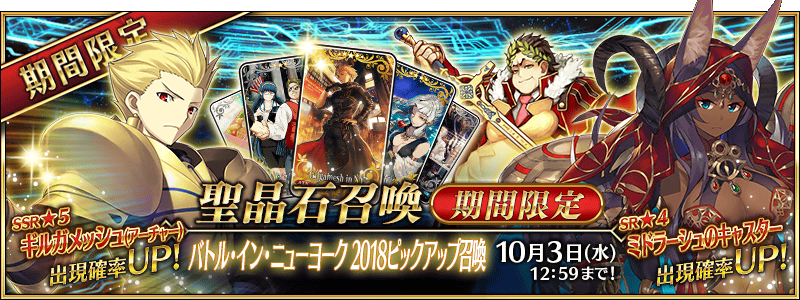
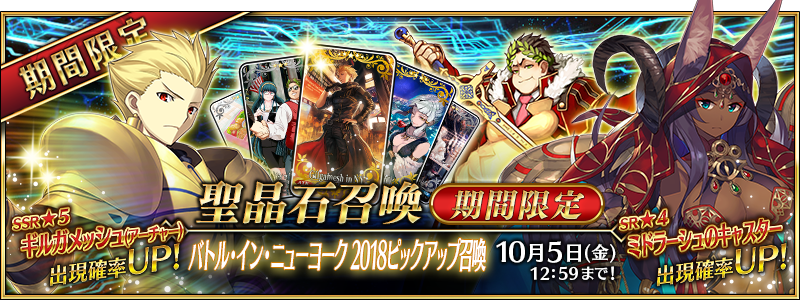
0926neqkj

diff --git a/event_binny.html b/event_binny.html
@@ -76,7 +76,8 @@ table.trbgcolor tr:nth-child(2n+1) {
 	<a href="#midashi_17"><div class="bkmk">米德拉什的Caster</div></a>
 	</div>
 <article class="content textsize" style="width:840px">
-<p><img alt="TOPバナー" height="300" src="common/images/2018/binny_full_ajeh8/top_banner.png" width="800"/></p>
+<p><img alt="TOPバナー" height="300" src="common/images/2018/binny_full_ajeh8/top_banner.png" width="800"/><br/>
+<span class="em01">【9月27日(四) 12:00圖片更新】</span></p>
 <div style="height:10px; margin-top:-15px;"></div>
 <!-- block -->
 <p><img alt="プロローグ" height="300" src="common/images/2018/binny_full_ajeh8/prologue.png" width="800"/><br/>
@@ -84,7 +85,8 @@ table.trbgcolor tr:nth-child(2n+1) {
 <!-- block -->
 <p style="margin-bottom: 5px;"><img alt="" src="common/images/2018/binny_wak7d/midashi_01.png" id="midashi_01"/></p>
 <p><span class="diamond">◆</span><span class="strong">活動舉辦期間</span><span class="diamond">◆</span><br/>
-<span class="em01">2018年9月19日(三) 17:00～10月3日(三) 11:59</span></p>
+<span class="em01">2018年9月19日(三) 17:00～<s>10月3日(三)</s>10月5日(五) 11:59<br/>
+※9/27(四) 12:00修正</span></p>
 <p><span class="diamond">◆</span><span class="strong">活動概要</span><span class="diamond">◆</span><br/>
 <span class="em01">舉辦期間限定活動「Battle in New York 2018」！<br/>
 戰鬥的舞台從羅馬遷移到紐約！<br/>
@@ -128,12 +130,13 @@ table.trbgcolor tr:nth-child(2n+1) {
 </tr>
 <tr><td>預選</td><td>9月19日(三) 17:00～9月23日(日) 16:59</td></tr>
 <tr><td>正賽</td><td>9月23日(日) 17:00～9月28日(五) 16:59</td></tr>
-<tr><td>決賽</td><td>9月28日(五) 17:00～10月3日(三) 11:59</td></tr>
+<tr><td>決賽</td><td>9月28日(五) 17:00～<s>10月3日(三)</s>10月5日(五) 11:59</td></tr>
 </tbody>
 </table>
+<p class="em01">※9/27(四) 12:00修正<br/></p>
 <!-- block -->
 <p><span class="em01">【9月19日(三) 17:00追記】</span></p>
-<p><img alt="" height="380" src="common/images/2018/binny_full_ajeh8/info_image_02.png" width="800"/></p>
+<p><img alt="" height="380" src="common/images/2018/binny_full_ajeh8/info_image_02_b.png" width="800"/></p>
 <!-- block -->
 <table align="center" class="trbgcolor" style=";;margin-bottom: 10px; margin-top: 3px" width="100%">
 <tbody>
@@ -151,6 +154,25 @@ table.trbgcolor tr:nth-child(2n+1) {
 </table>
 <br/>
 <!-- block -->
+<p><span class="em01">【9月23日(日) 17:00追記】</span></p>
+<p><img alt="" height="380" src="common/images/2018/binny_full_ajeh8/info_image_03.png" width="800"/></p>
+<!-- block -->
+<table align="center" class="trbgcolor" style=";;margin-bottom: 10px; margin-top: 3px" width="100%">
+<tbody>
+<tr>
+<th width="60%">關卡名</th>
+<th width="20%">推薦Lv.</th>
+<th width="20%">消耗AP</th>
+</tr>
+<tr><td>ストリート級 NY円卓名誉守り隊</td><td>Lv.25</td><td>AP30</td></tr>
+<tr><td>クラブ級 サイエンスの夜明け</td><td>Lv.40</td><td>AP40</td></tr>
+<tr><td>ジム級 ザ･ロードローラー</td><td>Lv.60</td><td>AP40</td></tr>
+<tr><td>アリーナ級 I♡SJ</td><td>Lv.80</td><td>AP40</td></tr>
+<tr><td>ガーデン級 風魔一族の野望</td><td>Lv.90</td><td>AP40</td></tr>
+</tbody>
+</table>
+<br/>
+<!-- block -->
 <p style="margin-bottom: 5px;"><img alt="" src="common/images/2018/binny_full_ajeh8/midashi_04.png" id="midashi_04"/></p>
 <p><span class="em01">使用特殊技能等持有與平常不同攻擊類型敵人<span class="notice">附有不可續關限制的超高難易度關卡</span>。<br/>
 通過關卡的話可獲得呼符等豪華報酬。<br/>
@@ -163,7 +185,7 @@ table.trbgcolor tr:nth-child(2n+1) {
 ※展演關卡就算在通過後也不會消失，能無數次挑戰。<br/>
 ※關卡通過報酬、戰利品、Master經驗值、魔術禮裝經驗值、絆點數只可在初次通過時獲得。</span></p>
 <!-- block -->
-<p><span class="em01">【9月20日(四) 17:00更新】</span></p>
+<p><span class="em01">【9月27日(四) 17:00更新】</span></p>
 <table align="center" class="trbgcolor" style=";;margin-bottom: 10px;" width="100%">
 <tbody>
 <tr>
@@ -171,19 +193,19 @@ table.trbgcolor tr:nth-child(2n+1) {
 <th width="30%">舉辦期間</th>
 </tr>
 <tr><td>【超高難易度】おむすびチェーン店・一号</td>
-<td>9月20日(四) 17:00～<br/>10月3日(三) 11:59</td></tr>
-<tr><td>【超高難易度】展演2</td>
-<td>9月21日(五) 17:00～<br/>10月3日(三) 11:59</td></tr>
-<tr><td>【超高難易度】展演3</td>
-<td>9月22日(六) 17:00～<br/>10月3日(三) 11:59</td></tr>
-<tr><td>【超高難易度】展演4</td>
-<td>9月24日(一) 17:00～<br/>10月3日(三) 11:59</td></tr>
-<tr><td>【超高難易度】展演5</td>
-<td>9月26日(三) 17:00～<br/>10月3日(三) 11:59</td></tr>
+<td>9月20日(四) 17:00～<br/><s>10月3日(三)</s>10月5日(五) 11:59</td></tr>
+<tr><td>【超高難易度】フレイム・ゲート</td>
+<td>9月21日(五) 17:00～<br/><s>10月3日(三)</s>10月5日(五) 11:59</td></tr>
+<tr><td>【超高難易度】摩天楼の怪人</td>
+<td>9月22日(六) 17:00～<br/><s>10月3日(三)</s>10月5日(五) 11:59</td></tr>
+<tr><td>【超高難易度】おいでよジャガーの国</td>
+<td>9月24日(一) <s>17:00</s>20:00～<br/><s>10月3日(三)</s>10月5日(五) 11:59</td></tr>
+<tr><td>【超高難易度】ドルセント・リースショップ</td>
+<td><s>9月26日(三)</s>9月27日(四) 17:00～<br/><s>10月3日(三)</s>10月5日(五) 11:59</td></tr>
 <tr><td>【超高難易度】展演6</td>
-<td>9月28日(五) 17:00～<br/>10月3日(三) 11:59</td></tr>
-<tr><td>【超高難易度】展演フィナーレ</td>
-<td>9月30日(日) 17:00～<br/>10月3日(三) 11:59</td></tr>
+<td><s>9月28日(五)</s>9月30日(日) 17:00～<br/><s>10月3日(三)</s>10月5日(五) 11:59</td></tr>
+<tr><td>【超高難易度】展演終演</td>
+<td><s>9月30日(日)</s>10月3日(三) 17:00～<br/><s>10月3日(三)</s>10月5日(五) 11:59</td></tr>
 </tbody>
 </table>
 <br/>
@@ -212,7 +234,8 @@ table.trbgcolor tr:nth-child(2n+1) {
 </span></p>
 <p><span class="diamond">◆</span><span class="strong">交換期間</span><span class="diamond">◆</span>
 <br/>
-<span class="em01"><span class="notice">2018年9月19日(三) 17:00～10月10日(三) 11:59</span><br/>
+<span class="em01"><span class="notice">2018年9月19日(三) 17:00～<s>10月10日(三)</s>10月12日(五) 11:59</span><br/>
+※9/27(四) 12:00修正<br/>
 ※交換期間結束後「AUO籤」會消失。</span></p>
 <p><img alt="" height="380" src="common/images/2018/binny_full_ajeh8/info_image_05.png" width="800"/></p>
 <!-- block -->
@@ -319,7 +342,8 @@ table.trbgcolor tr:nth-child(2n+1) {
 <span class="notice">※英靈結晶・流星之芙芙ALL★4(HP)、英靈結晶・日輪之芙芙ALL★4(ATK)的交換會在通過期間限定活動「Battle in New York 2018」主線關卡後開放。</span></span></p>
 <p><span class="diamond">◆</span><span class="strong">交換期間</span><span class="diamond">◆</span>
 <br/>
-<span class="em01"><span class="notice">2018年9月19日(三) 17:00～10月10日(三) 11:59</span><br/>
+<span class="em01"><span class="notice">2018年9月19日(三) 17:00～<s>10月10日(三)</s>10月12日(五) 11:59</span><br/>
+※9/27(四) 12:00修正<br/>
 ※交換期間結束後「金條」「肌肉漢堡」「強健熱狗」「狂野薯條」會消失。</span></p>
 <p><span class="diamond">◆</span><span class="strong">能用金條交換的道具</span><span class="diamond">◆</span></p>
 <table class="table_non mt-15 table_color">
@@ -543,7 +567,8 @@ table.trbgcolor tr:nth-child(2n+1) {
 <p style="margin-bottom: 5px;"><img alt="" src="common/images/2018/binny_full_ajeh8/midashi_12.png" id="midashi_12"/><br/></p>
 <p><img alt="" src="common/images/2018/binny_full_ajeh8/summon_banner.png"/></p>
 <p><span class="diamond">◆</span><span class="strong">「Battle in New York 2018 Pick&#32;Up召喚」期間</span><span class="diamond">◆</span><br/>
-<span class="em01">期間:2018年9月19日(三) 17:00～10月3日(三) 11:59</span></p>
+<span class="em01">期間:2018年9月19日(三) 17:00～<s>10月3日(三)</s>10月5日(五) 11:59<br/>
+※9/27(四) 12:00修正</span></p>
 <p><span class="em01">
 舉辦期間限定「Battle in New York 2018 Pick&#32;Up召喚」！<br/>
 在期間限定活動「Battle in New York 2018」活躍的「<span class="notice">★5(SSR)吉爾伽美什(Archer)</span>」以期間限定登場！<br/>

diff --git a/news_180926.html b/news_180926.html
@@ -1,0 +1,78 @@
+<!DOCTYPE html PUBLIC "-//W3C//DTD XHTML 1.0 Transitional//EN" "http://www.w3.org/TR/xhtml1/DTD/xhtml1-transitional.dtd">
+<html xmlns="http://www.w3.org/1999/xhtml">
+<head>
+<meta http-equiv="Content-Type" content="text/html; charset=utf-8" />
+<meta name="description" content="Fate/Grand Order台灣中文資料站" />
+<meta name="keywords" content="Fate/Grand Order,FGO,Fate/GO,TYPE-MOON,Fate,Saber,Archer,Lancer,Rider,Caster,Assassin,Berserker,Shielder,Ruler" />
+<title>【報告】「Battle in New York 2018」的超高難易度關卡「展演5」開始時間的延期公告</title>
+<link rel="icon" href="favicon.ico" type="image/vnd.microsoft.icon">
+<link href="common/css/common.css" rel="stylesheet" type="text/css" />
+<link href="common/css/detail_info.css" rel="stylesheet" type="text/css" />
+<link href="common/css/sidebar.css" rel="stylesheet" type="text/css" />
+<script type="text/javascript" src="common/js/jquery.min.js"></script>
+<script type="text/javascript" src="common/js/sidebar.js"></script>
+<script type="text/javascript" src="common/js/smoothRollOver.js"></script>
+<script type="text/javascript" src="common/js/scrollTop.js"></script>
+<script>
+  (function(i,s,o,g,r,a,m){i['GoogleAnalyticsObject']=r;i[r]=i[r]||function(){
+  (i[r].q=i[r].q||[]).push(arguments)},i[r].l=1*new Date();a=s.createElement(o),
+  m=s.getElementsByTagName(o)[0];a.async=1;a.src=g;m.parentNode.insertBefore(a,m)
+  })(window,document,'script','//www.google-analytics.com/analytics.js','ga');
+
+  ga('create', 'UA-70142247-1', 'auto');
+  ga('require', 'linkid');
+  ga('require', 'displayfeatures');
+  ga('send', 'pageview');
+</script>
+</head>
+<body onload="loadsidebar();">
+<!--二欄橫幅主要區塊開始-->
+<div style='position:relative;'>
+    <!--選單區塊開始-->
+    <div id="div_right_sidebar"></div>
+    <!--選單區塊結束-->
+    <!--主要內容區塊開始-->
+    <div id="div_content"><div class="container">
+<article class="content textsize" style="width:840px">
+<h1 class="headline3"><dl><dt class="date">9/26</dt><dd>【報告】「Battle in New York 2018」的超高難易度關卡「展演5」開始時間的延期公告</dd></dl></h1>
+<p>非常感謝您的使用。<br>
+這裡是「Fate/Grand Order」營運團隊。</p>
+<p>【9月26日(三) 20:00追記】<br/>
+為了期間限定活動「Battle in New York 2018」超高難易度關卡「展演5」開始正持續準備・對應，開始時間預定為2018年9月27日(四) 17:00。<br/>
+非常抱歉讓使用的各位玩家等候。<br/>
+隨著「展演5」的開始時間延期，「展演6」、「展演終演」開始時間如下述延期。</p>
+<p>■超高難易度關卡開始時間<br/>
+【超高難易度】展演5 9月27日(四) 17:00～<br/>
+【超高難易度】展演6 9月30日(日) 17:00～<br/>
+【超高難易度】展演終演 10月3日(三) 17:00～<br/>
+</p>
+<p>另外，隨著「展演」開始時間延期，期間限定活動「Battle in New York 2018」的舉辦期間如下述延期。</p>
+<p>■舉辦期間<br/>
+2018年9月19日(三) 17:00～10月5日(五) 11:59<br/>
+※遊戲內的顯示中，會有結束時間未變更的情況。<br/>
+　關於此問題會將依序對應。</p>
+<p>對上述開始時間延期感到抱歉，會向對象的玩家做出以下對應。</p>
+<p>【對象】<br/>
+2018年9月26日(三) 16:59前有遊玩過「Fate/Grand Order」的所有玩家</p>
+<p>【對應內容】<br/>
+・聖晶石 3個<br/>
+・黃金果實 3個</p>
+<p>【配發方法】<br/>
+配發至禮物箱</p>
+<p>【配發期間】<br/>
+2018年9月28日(五) AM3:00～2019年2月28日(四) 22:59</p>
+<p>抱歉給使用的玩家帶來麻煩，在超高難易度關卡「展演5」開始前，請稍加等候。</p>
+<p>【9月26日(三) 16:00刊載】<br/>
+關於預定自2018年9月26日(三) 17:00開始的期間限定活動「Battle in New York 2018」超高難易度關卡「展演5」，由於發佈準備需要比預想更久的時間，延期開始時間。<br/>
+「展演5」的開始時間，在發佈目標確立後會立刻再次報告。<br/>
+※關於「展演6」及「展演終演」的發佈時間也是未定。</p>
+<p>為不斷變更預定對各位玩家感到抱歉。</p>
+</article>
+</div>
+<div id="gotop"><a href="#"><img src="common/images/btn_gotop_off.jpg" width="47" height="47" alt="返回頂端" /></a></div>
+    </div>
+    <!--主要內容區塊結束-->
+</div>
+<!--二欄橫幅主要區塊結束-->
+</body>
+</html>

diff --git a/news_180924.html b/news_180924.html
@@ -1,0 +1,70 @@
+<!DOCTYPE html PUBLIC "-//W3C//DTD XHTML 1.0 Transitional//EN" "http://www.w3.org/TR/xhtml1/DTD/xhtml1-transitional.dtd">
+<html xmlns="http://www.w3.org/1999/xhtml">
+<head>
+<meta http-equiv="Content-Type" content="text/html; charset=utf-8" />
+<meta name="description" content="Fate/Grand Order台灣中文資料站" />
+<meta name="keywords" content="Fate/Grand Order,FGO,Fate/GO,TYPE-MOON,Fate,Saber,Archer,Lancer,Rider,Caster,Assassin,Berserker,Shielder,Ruler" />
+<title>【報告】「Battle in New York 2018」的超高難易度關卡「展演4」開始時間的延期公告</title>
+<link rel="icon" href="favicon.ico" type="image/vnd.microsoft.icon">
+<link href="common/css/common.css" rel="stylesheet" type="text/css" />
+<link href="common/css/detail_info.css" rel="stylesheet" type="text/css" />
+<link href="common/css/sidebar.css" rel="stylesheet" type="text/css" />
+<script type="text/javascript" src="common/js/jquery.min.js"></script>
+<script type="text/javascript" src="common/js/sidebar.js"></script>
+<script type="text/javascript" src="common/js/smoothRollOver.js"></script>
+<script type="text/javascript" src="common/js/scrollTop.js"></script>
+<script>
+  (function(i,s,o,g,r,a,m){i['GoogleAnalyticsObject']=r;i[r]=i[r]||function(){
+  (i[r].q=i[r].q||[]).push(arguments)},i[r].l=1*new Date();a=s.createElement(o),
+  m=s.getElementsByTagName(o)[0];a.async=1;a.src=g;m.parentNode.insertBefore(a,m)
+  })(window,document,'script','//www.google-analytics.com/analytics.js','ga');
+
+  ga('create', 'UA-70142247-1', 'auto');
+  ga('require', 'linkid');
+  ga('require', 'displayfeatures');
+  ga('send', 'pageview');
+</script>
+</head>
+<body onload="loadsidebar();">
+<!--二欄橫幅主要區塊開始-->
+<div style='position:relative;'>
+    <!--選單區塊開始-->
+    <div id="div_right_sidebar"></div>
+    <!--選單區塊結束-->
+    <!--主要內容區塊開始-->
+    <div id="div_content"><div class="container">
+<article class="content textsize" style="width:840px">
+<h1 class="headline3"><dl><dt class="date">9/24</dt><dd>【報告】「Battle in New York 2018」的超高難易度關卡「展演4」開始時間的延期公告</dd></dl></h1>
+<p>非常感謝您的使用。<br>
+這裡是「Fate/Grand Order」營運團隊。</p>
+<p>【9月24日(一) 20:00追記】<br/>
+追記關於超高難易度關卡「展演4」開始時間延期的補償。</p>
+<p>【9月24日(一) 18:30追記】<br/>
+關於期間限定活動「Battle in New York 2018」的超高難易度關卡「展演4」，報告開始預定時間。<br/>
+開始時間預定為2018年9月24日(一) 20:00。<br/>
+現在請稍加等候。<br/>
+關於超高難易度關卡「展演4」開始時間延期的補償，將再次報告さ。</p>
+<p>【9月24日(一) 16:30掲載】<br/>
+關於預定自2018年9月24日(一) 17:00開始的期間限定活動「Battle in New York 2018」超高難易度關卡「展演4」，由於在對象關卡確認到，延期開始時間。<br/>
+「展演4」的開始時間，在問題解決後會立刻再次報告。</p>
+<p>【9月24日(一) 20:00追記】<br/>
+對上述「展演4」開始時間延期感到抱歉，會向對象的玩家做出以下對應。</p>
+<p>【對象】<br/>
+2018年9月24日(一) 16:59前有遊玩過「Fate/Grand Order」的所有玩家</p>
+<p>【對應內容】<br/>
+・聖晶石 1個<br/>
+・黃金果實 1個</p>
+<p>【配發方法】<br/>
+配發至禮物箱</p>
+<p>【配發期間】<br/>
+2018年9月25日(二) AM3:00～2019年2月28日(四) 22:59</p>
+<p>非常抱歉麻煩到正在使用的玩家。</p>
+</article>
+</div>
+<div id="gotop"><a href="#"><img src="common/images/btn_gotop_off.jpg" width="47" height="47" alt="返回頂端" /></a></div>
+    </div>
+    <!--主要內容區塊結束-->
+</div>
+<!--二欄橫幅主要區塊結束-->
+</body>
+</html>

diff --git a/index.html b/index.html
@@ -131,6 +131,11 @@ $(function(){
 </td><td colspan=2>
 ・<a href="news_180921.html">「日本遊戲大賞2018」優秀賞獲獎記念</a>
 </td></tr>
+<tr><td colspan=2>
+・<a href="news_180924.html">超高難易度關卡「展演4」延期公告</a>
+</td><td colspan=2>
+・<a href="news_180926.html">超高難易度關卡「展演5」延期公告</a>
+</td></tr>
 <tr><td width=200>
 ・<span class="notice"><a href="news_180918.html">9/19維修公告</a>(12:00實施)</span>
 </td><td width=200>
